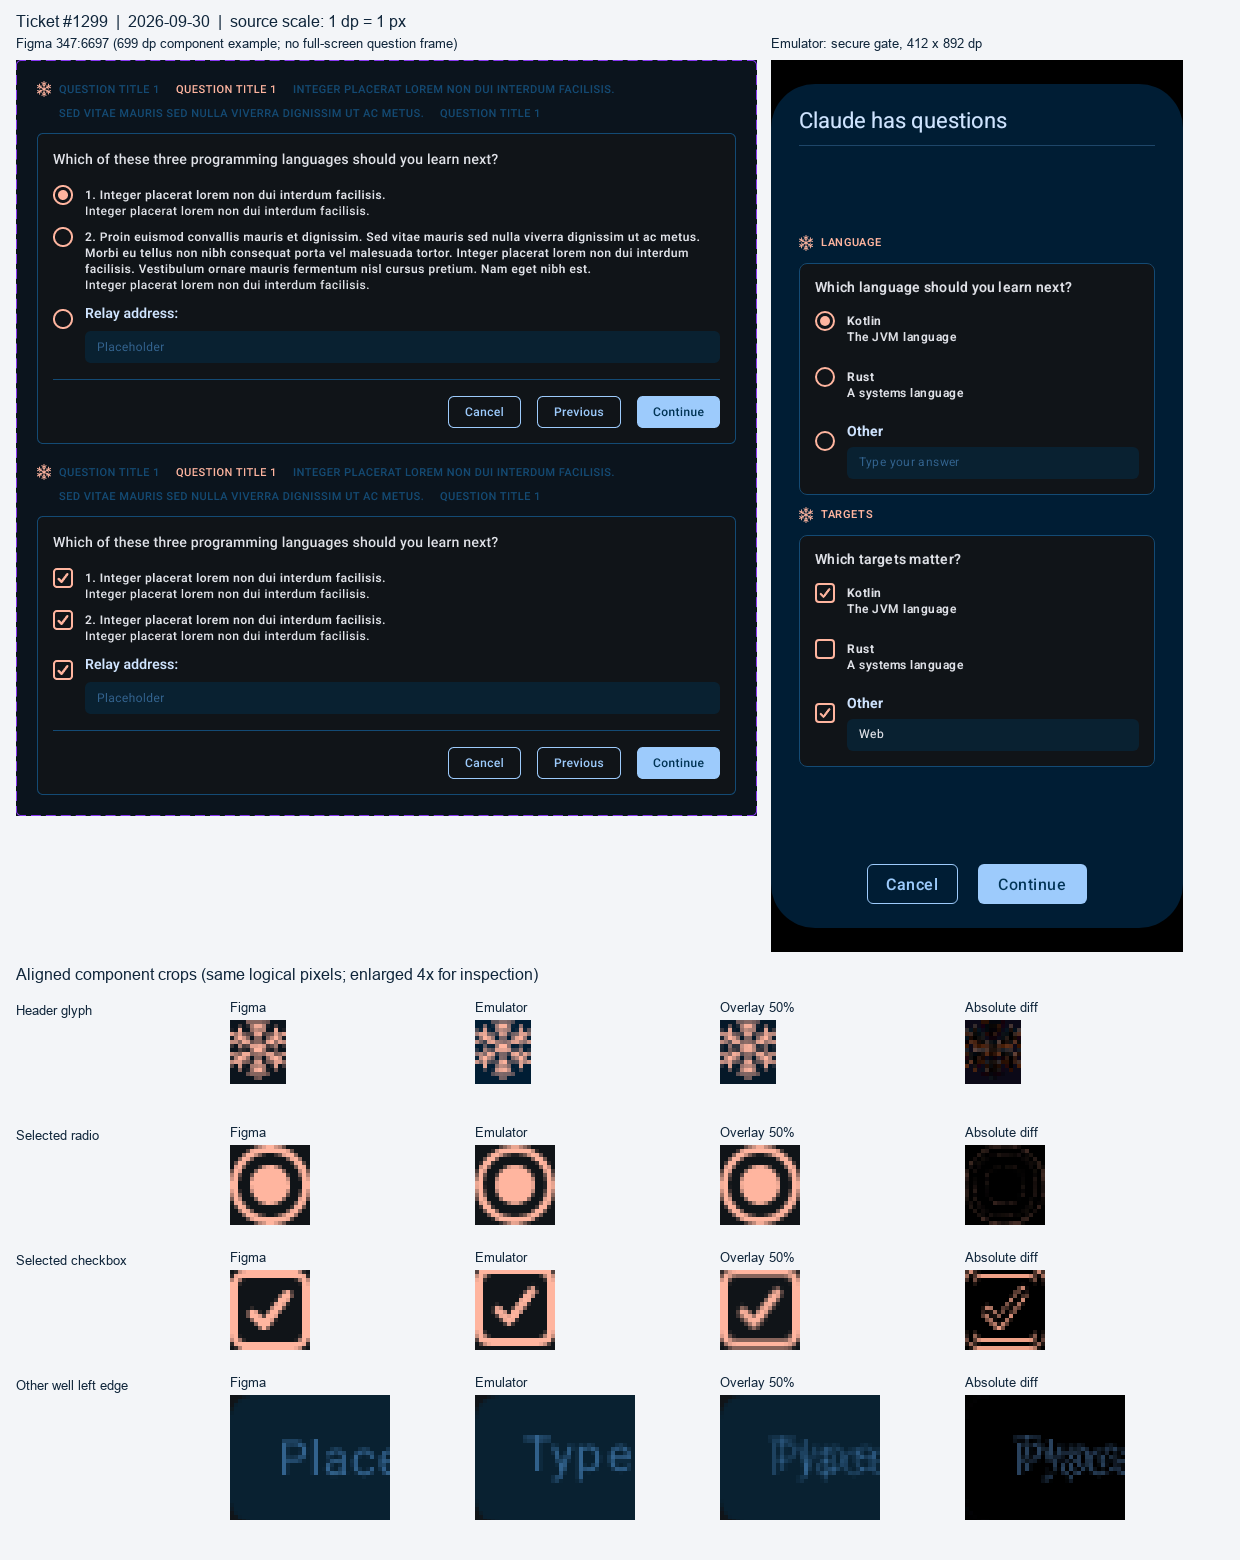
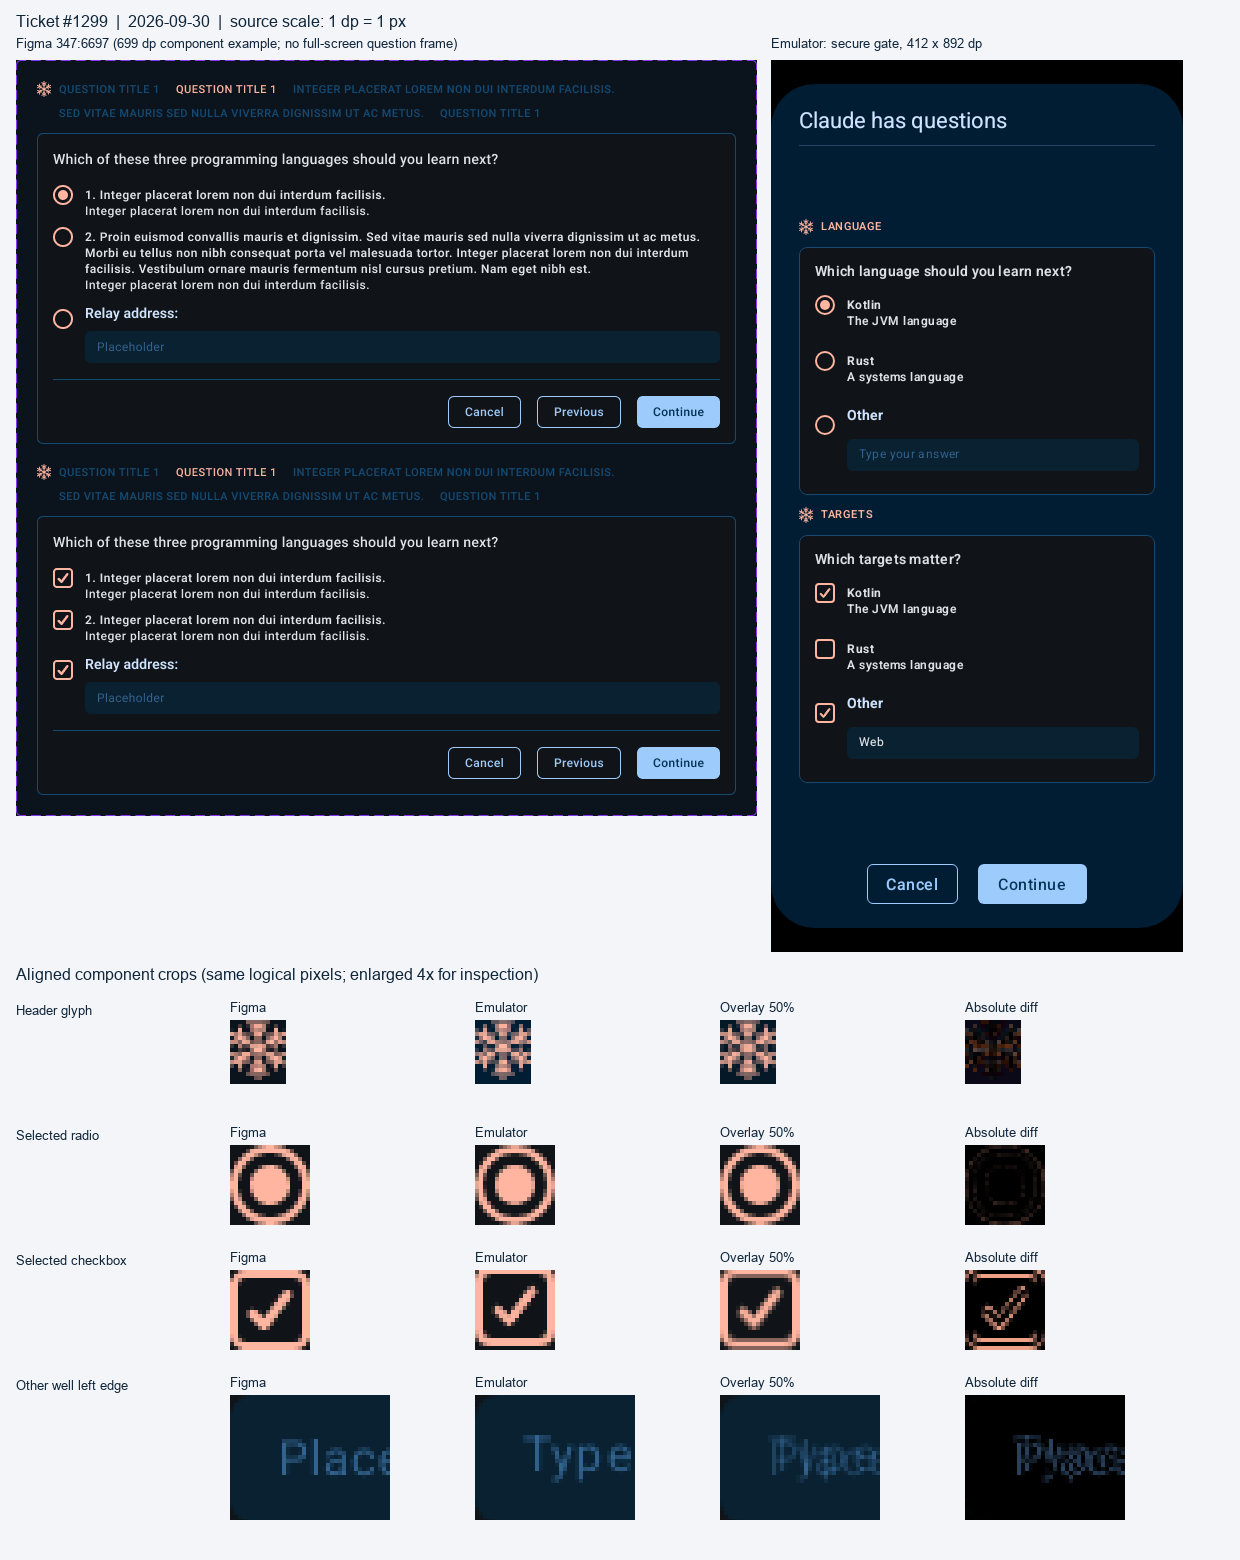
fix: enlarge clarification Other field hit area (#1299)

Changed region(s): [[0.6435, 0.1231, 0.95, 0.3077], [0.6435, 0.4615, 0.95, 0.5231]]

diff --git a/app/src/main/java/de/pyryco/mobile/ui/conversations/thread/QuestionBatchModal.kt b/app/src/main/java/de/pyryco/mobile/ui/conversations/thread/QuestionBatchModal.kt
@@ -159,7 +159,7 @@ private fun QuestionBlock(
                             BasicTextField(
                                 value = selection.otherText,
                                 onValueChange = { onEvent(QuestionModalEvent.OtherTextChanged(index, it)) },
-                                modifier = Modifier.fillMaxWidth().testTag("question_other_$index"),
+                                modifier = Modifier.fillMaxWidth().heightIn(min = 48.dp).testTag("question_other_$index"),
                                 enabled = enabled,
                                 textStyle = MaterialTheme.typography.bodySmall.copy(color = MaterialTheme.colorScheme.modalFieldText),
                                 cursorBrush = SolidColor(MaterialTheme.colorScheme.primary),
@@ -168,18 +168,26 @@ private fun QuestionBlock(
                                         modifier =
                                             Modifier
                                                 .fillMaxWidth()
-                                                .heightIn(min = 32.dp)
-                                                .background(MaterialTheme.colorScheme.modalFieldContainer, RoundedCornerShape(6.dp))
-                                                .padding(horizontal = 12.dp, vertical = 8.dp),
+                                                .heightIn(min = 48.dp),
+                                        contentAlignment = Alignment.CenterStart,
                                     ) {
-                                        if (selection.otherText.isEmpty()) {
-                                            Text(
-                                                placeholder,
-                                                style = MaterialTheme.typography.bodySmall,
-                                                color = MaterialTheme.colorScheme.inversePrimary,
-                                            )
+                                        Box(
+                                            modifier =
+                                                Modifier
+                                                    .fillMaxWidth()
+                                                    .heightIn(min = 32.dp)
+                                                    .background(MaterialTheme.colorScheme.modalFieldContainer, RoundedCornerShape(6.dp))
+                                                    .padding(horizontal = 12.dp, vertical = 8.dp),
+                                        ) {
+                                            if (selection.otherText.isEmpty()) {
+                                                Text(
+                                                    placeholder,
+                                                    style = MaterialTheme.typography.bodySmall,
+                                                    color = MaterialTheme.colorScheme.inversePrimary,
+                                                )
+                                            }
+                                            field()
                                         }
-                                        field()
                                     }
                                 },
                             )

diff --git a/app/src/androidTest/java/de/pyryco/mobile/ui/conversations/thread/QuestionBatchModalTest.kt b/app/src/androidTest/java/de/pyryco/mobile/ui/conversations/thread/QuestionBatchModalTest.kt
@@ -9,6 +9,7 @@ import android.view.inspector.WindowInspector
 import androidx.compose.foundation.layout.size
 import androidx.compose.runtime.getValue
 import androidx.compose.ui.Modifier
+import androidx.compose.ui.geometry.Offset
 import androidx.compose.ui.semantics.Role
 import androidx.compose.ui.semantics.SemanticsProperties
 import androidx.compose.ui.test.ComposeTimeoutException
@@ -150,7 +151,8 @@ class QuestionBatchModalTest {
         rule
             .onNodeWithTag("question_other_0")
             .performScrollTo()
-            .performTouchInput { click(center) }
+            .assertHeightIsAtLeast(48.dp)
+            .performTouchInput { click(Offset(center.x, 2f)) }
             .assertIsFocused()
         rule.onNodeWithTag("question_other_0").performTextInput("Go")
         rule.onNodeWithText("Kotlin").assertIsNotSelected()

diff --git a/docs/specs/architecture/1299-clarification-question-components.md b/docs/specs/architecture/1299-clarification-question-components.md
@@ -72,6 +72,7 @@ Pending documentation stage: update `docs/knowledge/features/question-batch-moda
 
 ## Revisions
 
+- 2026-09-30 (verifier rework): The Other `BasicTextField` itself needs a 48 dp minimum touch region; `ChoiceRow`'s 48 dp selection target does not enlarge the independently focusable field. Center the unchanged 32 dp minimum visible well inside the field's own 48 dp minimum layout, and prove field bounds plus a near-edge pointer tap on the device. This responds to the PR #1301 MUST FIX finding.
 - 2026-09-30: The real API 35 emulator returned a blank SurfaceFlinger screenshot because `MobileGateModal` sets `FLAG_SECURE`. The capture test draws that same dialog view directly into a bitmap with static fixture text; the secure window remains unchanged. The retained 412 × 892 render and labelled 1 dp-to-1 px component overlay are the visual evidence.
 - 2026-09-30: The visible 20 dp controls match the Figma components, while `ChoiceRow` retains the existing 48 dp row touch floor. The component example is wider and has no phone-sized question frame, so vertical row rhythm adapts to touch reachability. The exported Figma checkbox selector became a separate vector resource; no stock substitution is used.
 - 2026-09-30: Security review precision: `QuestionShownPayloadDto.toBatch` preserves daemon text verbatim; the existing 131,072-character inbound frame cap in `OkHttpRelayTransport` bounds the aggregate frame before decoding. This visual ticket adds no second parser or text sink.
